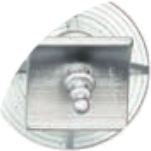
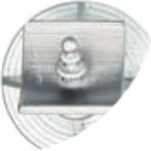
All BoardElement images now points in the same direction

diff --git a/src/main/java/dk/dtu/compute/se/pisd/roborally/view/board/space/BoardElementView.java b/src/main/java/dk/dtu/compute/se/pisd/roborally/view/board/space/BoardElementView.java
@@ -3,6 +3,7 @@ package dk.dtu.compute.se.pisd.roborally.view.board.space;
 import dk.dtu.compute.se.pisd.designpatterns.observer.Subject;
 import dk.dtu.compute.se.pisd.roborally.Utils.imageFinder.BoardElementImageFinder;
 import dk.dtu.compute.se.pisd.roborally.model.board.boardElement.BoardElement;
+import dk.dtu.compute.se.pisd.roborally.model.enums.Heading;
 import dk.dtu.compute.se.pisd.roborally.view.ViewObserver;
 import javafx.scene.image.ImageView;
 import javafx.scene.layout.StackPane;
@@ -63,7 +64,7 @@ public class BoardElementView extends StackPane implements ViewObserver {
      * @author Rasmus Nylander, s205418@student.dtu.dk
      */
     protected void updateRotation(BoardElement boardElement) {
-        if (boardElement.getDirection() != null) rotation = boardElement.getDirection().ordinal();
+        if (boardElement.getDirection() != null) rotation = boardElement.getDirection().ordinal() - Heading.NORTH.ordinal();
         imageView.setRotate(rotation * 90);
     }
 
